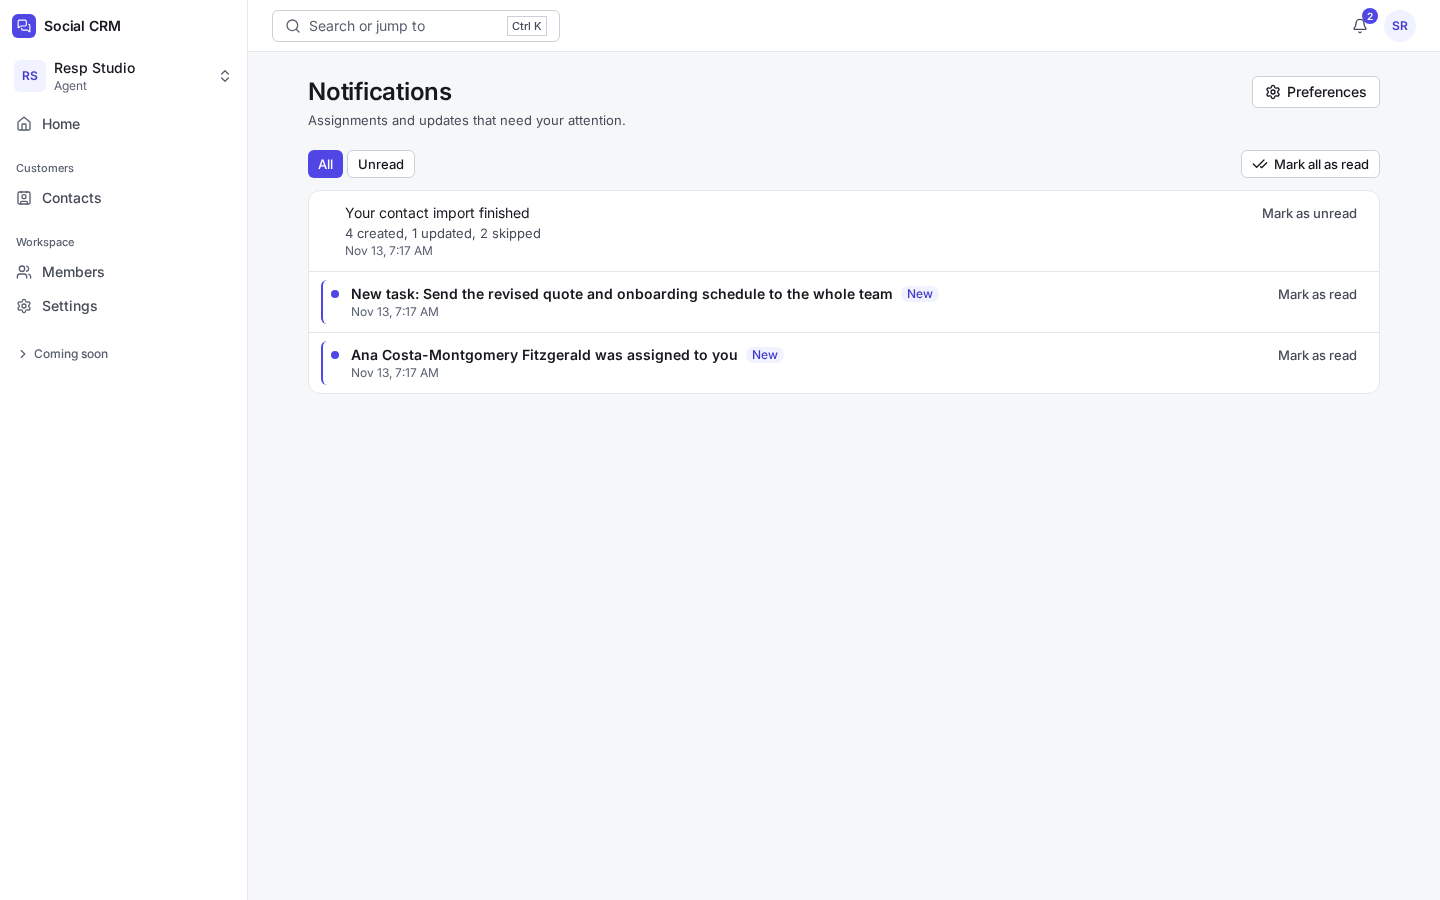
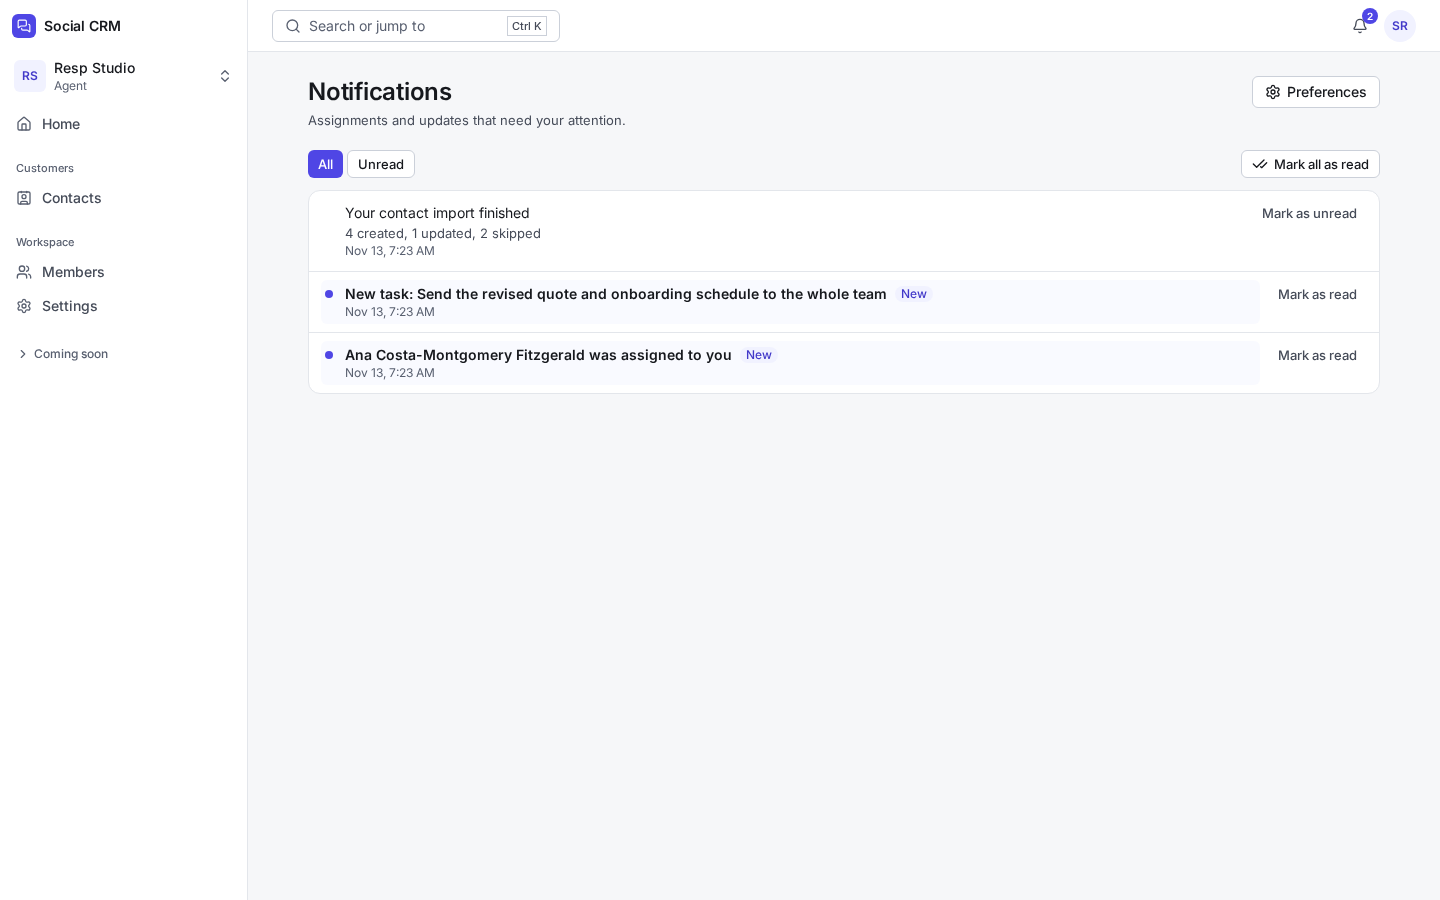
fix(web): unread marker without side border; test lint/type fixes; Track C report and design doc

Changed region(s): [[0.2188, 0.3111, 0.6562, 0.4356]]

diff --git a/apps/api/test/notifications.test.ts b/apps/api/test/notifications.test.ts
@@ -20,7 +20,11 @@ const clear = () => h.admin.query("DELETE FROM notifications WHERE workspace_id 
 
 beforeAll(async () => {
   h = await bootstrap();
-  [owner, admin, agent, viewer, outsider] = await Promise.all(["nowner", "nadmin", "nagent", "nviewer", "noutsider"].map((l) => h.newUser(l)));
+  owner = await h.newUser("nowner");
+  admin = await h.newUser("nadmin");
+  agent = await h.newUser("nagent");
+  viewer = await h.newUser("nviewer");
+  outsider = await h.newUser("noutsider");
   ws = await h.workspace(owner, "Notif", { admin, agent, viewer });
   other = await h.workspace(outsider, "Notif other");
 });
@@ -89,7 +93,7 @@ describe("notifications API", () => {
     expect(pages).toBe(3);
     expect(new Set(seen).size).toBe(7);
     expect(seen).toEqual([...seen].sort().reverse());
-    const raw = (qs: string) => h.app.request(`/v1/workspaces/${ws}/notifications?${qs}`, { headers: { cookie: agent.cookie } }).then((r) => r.status);
+    const raw = (qs: string) => Promise.resolve(h.app.request(`/v1/workspaces/${ws}/notifications?${qs}`, { headers: { cookie: agent.cookie } })).then((r) => r.status);
     expect(await raw("limit=500")).toBe(400);
     expect(await raw("cursor=nope")).toBe(400);
   });
@@ -138,8 +142,7 @@ describe("notification preferences API", () => {
   });
 
   it("rejects unknown kinds and empty bodies; non-members get 404", async () => {
-    const c = h.clientFor(agent);
-    const patch = (b: unknown) => h.app.request(`/v1/workspaces/${ws}/notification-preferences`, { method: "PATCH", headers: { cookie: agent.cookie, origin: "http://localhost:3000", "content-type": "application/json" }, body: JSON.stringify(b) }).then((r) => r.status);
+    const patch = (b: unknown) => Promise.resolve(h.app.request(`/v1/workspaces/${ws}/notification-preferences`, { method: "PATCH", headers: { cookie: agent.cookie, origin: "http://localhost:3000", "content-type": "application/json" }, body: JSON.stringify(b) })).then((r) => r.status);
     expect(await patch({ preferences: [{ kind: "nope", inApp: false }] })).toBe(400);
     expect(await patch({ preferences: [] })).toBe(400);
     expect(failure(await h.clientFor(outsider).call(endpoints.getNotificationPreferences, P())).status).toBe(404);

diff --git a/apps/web/components/notifications/notification-list.tsx b/apps/web/components/notifications/notification-list.tsx
@@ -140,7 +140,7 @@ export function NotificationList({ workspaceId, timeZone, initial }: { workspace
                   </span>
                 </>
               );
-              const rowCls = cn("flex min-h-11 min-w-0 flex-1 items-start gap-3 rounded-md px-1 py-1 hover:bg-hover pointer-coarse:min-h-11", unread && "border-l-2 border-accent pl-2");
+              const rowCls = cn("flex min-h-11 min-w-0 flex-1 items-start gap-3 rounded-md px-1 py-1 hover:bg-hover pointer-coarse:min-h-11", unread && "bg-accent-subtle/40");
               return (
                 <li key={n.id} data-unread={unread} className="flex items-start gap-2 px-3 py-2">
                   {href ? (

diff --git a/docs/project/track-c-report.md b/docs/project/track-c-report.md
@@ -1,0 +1,82 @@
+# Track C report: in-app notifications and the event outbox
+
+Branch `track/notifications` (worktree), database `crm_notif`, E2E ports 3412 / 8812. Design: `docs/architecture/notifications.md` (includes the events/outbox section). Screenshots: `docs/design/screenshots/notifications/`.
+
+## Scope delivered
+
+- **Event outbox (B1/B2), built from scratch.** `domain_events`, `workspace_event_counters`, `event_consumers`; `emitEvent(tx, ...)`, `dispatchPending(db, opts)`, `pruneEvents`, `startDispatcher` in `apps/api/src/events.ts`. Gapless per-workspace seq, offsets advanced in the consumer's transaction, `FOR UPDATE SKIP LOCKED` so concurrent dispatchers never double-process, crash-resumable, pruning only below all offsets and older than N days (enforced again by a DELETE policy). In-process polling loop started by `apps/api/src/server.ts` with graceful stop; documented as moving to a pg-boss worker (D7).
+- **Notifications.** `notifications`, `notification_preferences`; generator registry with common rules (actor excluded, active members only, preferences, dedupe); generators for `contact.owner_assigned`, `task.assigned`, `import.completed`. Six endpoints, typed contracts, bearer compatible.
+- **UI.** Topbar bell with badge, inbox page, preferences page (tab added under Settings), polling plus focus refresh with request sequencing, polite live region, non-colour unread cues, empty/loading/error states, 44px touch targets.
+- No email or push. Extension point is documented (channel boolean columns beside `in_app`).
+
+## Tests (all against `crm_notif`)
+
+| Suite | Count | Proves |
+|---|---|---|
+| `packages/db/test/notifications-rls.test.ts` | 9 | RLS on all 5 new tables: a user cannot read another user's notifications (admin and owner included, other workspace, no user); inserts only on the system path and only for active members; dedupe unique per (workspace, user); only `read_at` updatable; no deletes; preferences own-rows-only; domain_events append-only, DELETE only below consumer offsets; counter +1 only; consumers dispatcher-only. The existing `tenancy.test.ts` tenant-table check still passes with the new tables. |
+| `apps/api/test/events.test.ts` | 14 | 25 concurrent transactions committing in reverse order give seq 1..25 and a polling reader never sees a gap (B1 test); rollback does not burn a seq; ordering, offsets, redelivery after a crash (batch and offset roll back together), 3 concurrent dispatchers process each event exactly once, independent offsets, poll loop start/stop, pruning (age AND offsets, late consumer holds events), notification pipeline (owner/actor/self-assign, task, import with null actor, malformed payload skipped, preferences, deactivated member, reprocessing creates one row, new generator registration). |
+| `apps/api/test/notifications.test.ts` | 10 | Isolation between members and workspaces, non-member 404, every role may read their own inbox, unread count, read/unread, mark all (own rows only), cursor pagination without repeats, limit/cursor validation, bearer path, 401, preferences defaults/update/muting end to end, validation. Drift guard (`contract.test.ts`) passes with the 6 new endpoints. |
+| `apps/web/e2e/notifications.spec.ts` | 5 | Badge updates through polling in a second browser context (clock fast-forward past 30 s) and via focus; live region polite; inbox: unread cues, click navigates and marks read, mark unread, mark all read, Unread filter empty state, Load more (20 then 33); preferences keyboard-toggle persists and mutes a kind through the real dispatcher; 375/768/1440 no overflow and axe (wcag2a/aa/21/22aa) clean on inbox and preferences; Pixel 7 touch targets >= 44px. |
+
+E2E seeds events with SQL that mirrors `emitEvent`; the API's own in-process dispatcher turns them into notifications, so the pipeline is exercised end to end.
+
+See the final run results at the bottom (section "Verification run").
+
+## Call sites for the integrator (I did not edit these files)
+
+Each call goes inside the handler's existing transaction (`withContext(db, ..., async (tx) => { ... })`), after the change succeeds. Import: `import { emitEvent } from "../events.ts";`. Do not emit when nothing changed.
+
+| File / function | When | Call |
+|---|---|---|
+| `apps/api/src/routes/contacts.ts`, create contact handler (`POST /contacts`) | new contact created with `ownerId` set | `emitEvent(tx, { workspaceId, type: "contact.owner_assigned", entityType: "contact", entityId: contact.id, actorUserId: userId, payload: { ownerUserId: contact.ownerId, previousOwnerUserId: null, contactName: contact.name } })` |
+| `contacts.ts`, update contact handler (`PATCH /contacts/:contactId`) | `ownerId` changed to a non-null user | same, with `previousOwnerUserId: <old ownerId>` |
+| `contacts.ts`, bulk/other places that assign owner (if any) | owner changes | same |
+| `apps/api/src/routes/tasks.ts` (Track B), create task | `assigneeUserId` set | `emitEvent(tx, { workspaceId, type: "task.assigned", entityType: "task", entityId: task.id, actorUserId: userId, payload: { assigneeUserId, title: task.title, contactId: task.contactId ?? null } })` |
+| `tasks.ts`, update task | assignee changed to a non-null user | same |
+| `contacts.ts` task handlers (today's `createTask`/`updateTask`, until Track B moves them) | as above | as above |
+| `apps/api/src/routes/imports.ts`, commit handler (`POST /imports/:importId/commit`) | after the import job is marked complete, in the same transaction | `emitEvent(tx, { workspaceId, type: "import.completed", entityType: "import", entityId: importId, actorUserId: null, payload: { importedByUserId: userId, created, updated, skipped } })` |
+
+Payload shapes are validated by `EventPayloads` in `packages/contracts/src/notifications.ts`. `actorUserId` is the acting user for assignments (so self-assignment notifies nobody); for `import.completed` it must be null because the importer is the intended recipient. The event is emitted in the caller's transaction on purpose: if the change rolls back, no notification is produced. If the integrator adds an `entityId` link target, the web mapping lives in `notificationLink` in `apps/web/components/notifications/notification-list.tsx` (contact, task with `data.contactId`, import).
+
+Also for the integrator:
+- Start the dispatcher wherever the API process is composed: already done in `apps/api/src/server.ts`. If Track B or D add consumers, pass them in `startDispatcher({ consumers: [...] })`.
+- `EVENT_DISPATCH_INTERVAL_MS` and `EVENT_RETENTION_DAYS` are new optional env vars.
+- Prefer deactivating members through the existing member flow: notifications skip non-active members automatically.
+
+## Shared-file edits (minimal, for the integrator)
+
+- `packages/db/src/schema/index.ts`: `export * from "./notifications.ts";`
+- `packages/contracts/src/index.ts`: import of `notificationEndpoints`, `export * from "./notifications.ts"` (marked `// track:notifications`), and `...notificationEndpoints` in `endpoints`.
+- `apps/api/src/routes/workspaces.ts`: import plus `scoped.route("/", notificationRoutes(db)); // track:notifications`.
+- `packages/core/src/permissions.ts`: **no change** (notification endpoints need membership only; own-data access).
+- `apps/web/components/shell/app-shell.tsx` (mine): `<NotificationBell>` in the topbar.
+- `apps/web/app/w/[workspaceId]/settings/settings-tabs.tsx`: one added "Notifications" tab (not on the ownership list; a one-line change).
+- `apps/api/src/server.ts`: dispatcher start, graceful stop, two env vars.
+- Migrations: `packages/db/drizzle/0008_notif_tables.sql` (generated) and `0009_notif_rls.sql` (custom, self-contained: function `app_is_system`, FORCE RLS, policies, grants/revokes, counter trigger). I did not touch `_journal.json` beyond what `drizzle-kit generate` wrote for my two entries; the integrator should discard these numbers, regenerate, and re-apply `0009_notif_rls.sql` verbatim after the table migration.
+
+## Design-hook fix
+
+The impeccable hook flagged a coloured side border (side-tab) on unread rows. Removed. Unread is now a filled dot, a visually-hidden "Unread:" label, a visible "New" label, a bolder title and a subtle background tint (`bg-accent-subtle/40`). Axe and e2e re-run after the change (see verification run).
+
+## Open issues and limits
+
+- A permanently failing event blocks its (consumer, workspace) pair; no attempt cap or dead-letter yet (documented `shortcut` in `events.ts`).
+- `app.system` is an application-level marker, not a separate DB role (trade-off in `notifications.md` section 2). Split into a `crm_worker` role when the pg-boss worker lands.
+- The dispatcher scans every workspace that has a counter row each interval (one cheap query plus one offset transaction per workspace with data). Fine at current scale; at large scale add a "dirty workspaces" notification (LISTEN/NOTIFY) or a worker per shard.
+- The notification link for a `task` notification only works when the payload has a `contactId`; Track B's task page needs a mapping when it exists.
+- Notifications are not deleted (no retention job for them yet; the app role has no DELETE).
+- `import.completed` and the assignment events are not emitted until the integrator wires the call sites above, so in the running app the inbox stays empty until then (the pipeline is proven by tests that call `emitEvent`).
+- No popover list in the bell (page only), no sound, no email/push.
+
+## Skills used (actual)
+
+- Read `docs/project/workstreams.md` and architecture section 13 first, as instructed.
+- Used Drizzle Kit (`generate`, `generate --custom`) for migrations.
+- Visually checked 375 and 1440 screenshots with the image reader.
+- Did NOT invoke: superpowers brainstorming/writing-plans, context7, ui-ux-pro-max, impeccable critique/polish, /code-review, /security-review (a post-write impeccable design hook ran automatically on new UI files and found nothing deterministic; I did not run a manual critique). The design followed the existing component library directly. A reviewer pass is still owed.
+
+## Verification run (2026-11-13, database `crm_notif`)
+
+- `turbo run lint typecheck test --continue --force --env-mode=loose`. Note: turbo's strict env mode drops `CRM_DB_NAME`, so without `--env-mode=loose` tests silently hit the default `crm` database. Lint and typecheck pass everywhere. Tests: core 48, api-client 16, db 45, web unit 34, design-tokens 42, api 157 (12 files) all pass in the filtered run (`turbo run test --filter=@crm/api`).
+- In the one full-parallel run of all tasks, the existing, unmodified `apps/api/test/contacts-list.test.ts` failed once with `Hook timed out in 10000ms` in its `beforeAll` under CPU contention; it passes in isolation and in the filtered run. Load flake, not a logic failure; its hook timeout should be raised.
+- Playwright, full suite on ports 3412/8812: 58 passed (53 existing + 5 notification tests), run before the unread-marker fix. The 5 notification tests (axe at 375/768/1440, touch targets) were re-run after the fix: 5 passed, screenshots regenerated.

diff --git a/docs/architecture/notifications.md b/docs/architecture/notifications.md
@@ -1,0 +1,76 @@
+# Notifications and the event outbox
+
+Status: built in Track C (2026-11-13). Implements architecture amendments B1 and B2 (section 13 of `architecture.md`) at minimal scale.
+
+## 1. Domain events (the outbox)
+
+| Table | Purpose |
+|---|---|
+| `domain_events` | Durable, append-only log: `workspace_id`, `seq`, `type`, `entity_type`, `entity_id`, `actor_user_id`, `payload jsonb`, `created_at`. `UNIQUE (workspace_id, seq)`. |
+| `workspace_event_counters` | One row per workspace holding `last_seq`. |
+| `event_consumers` | `(consumer, workspace_id) -> last_seq`, the offset of each consumer. |
+
+**Producing.** `emitEvent(tx, { workspaceId, type, entityType, entityId, actorUserId, payload })` in `apps/api/src/events.ts`. It must be called inside the caller's own transaction, so the event commits or rolls back together with the change it describes. It bumps the counter with `UPDATE ... RETURNING last_seq`; the row lock is held until commit, which serializes writers of one workspace, so seq order equals commit order and seq has no gaps (a rolled-back transaction never consumes a number). A trigger refuses any counter change other than +1. Tests: 25 concurrent transactions committing in reverse order while a reader polls; every reader snapshot is a contiguous prefix `1..k`.
+
+**Consuming.** `dispatchPending(db, { consumers, batchSize?, workspaceIds? })`:
+
+1. Lists workspaces from the counter table, then for each (consumer, workspace) opens one transaction.
+2. Takes the offset row with `SELECT ... FOR UPDATE SKIP LOCKED`. If another dispatcher holds it, that pair is skipped: two dispatchers never double-process.
+3. Reads events with `seq > offset` in order (batch of 100), runs `consumer.handle(tx, event)` for each, and advances the offset **in the same transaction**.
+4. A handler error rolls back the batch effects and the offset, and is reported in the result. The next run redelivers: at-least-once delivery, so consumers must be idempotent (the notification consumer is, through `dedupe_key`).
+
+Known limit (`shortcut` in code): a permanently failing event blocks its workspace for that consumer. Add an attempt cap or dead-letter table when a second real consumer exists. Malformed payloads for known types are skipped by the notification consumer rather than thrown, so bad data does not block.
+
+**Running it.** `startDispatcher(db, { consumers, intervalMs, retentionDays })` is an in-process polling loop started by `apps/api/src/server.ts` (`EVENT_DISPATCH_INTERVAL_MS`, default 1000; `EVENT_RETENTION_DAYS`, default 30). Runs never overlap and `stop()` awaits the run in flight (wired to SIGINT/SIGTERM). Decision D7: this moves to a pg-boss worker later. `dispatchPending` is already the unit of work and takes a `Db`, so the worker only calls it from a scheduled job; no other code changes. Tests call `dispatchPending` directly.
+
+**Retention.** `pruneEvents(db, { consumers, olderThanDays })` (run hourly by the loop) deletes events older than N days AND at or below every named consumer's offset. Missing offset rows are created at 0 first, so a newly registered consumer holds events back until it has caught up. The database enforces the offset rule again: the `DELETE` policy on `domain_events` only allows `seq <= min(last_seq)` of the workspace's consumers, and only on the system path.
+
+**Append-only.** `UPDATE` and `TRUNCATE` are revoked from the app role; `DELETE` exists only for the pruning policy above.
+
+## 2. Row-level security design
+
+The dispatcher runs as the same `crm_app` role as request handlers, inside a workspace context (`app.workspace_id`). It has no user. The system path is marked by a transaction-local setting `app.system = 'dispatcher'`, exposed as `app_is_system()`. Only `withSystem()` in `events.ts` sets it; request handlers never do. Every policy below still pins `workspace_id = app_workspace_id()`, so even the system path is confined to one workspace per transaction.
+
+| Table | SELECT | INSERT | UPDATE | DELETE |
+|---|---|---|---|---|
+| `domain_events` | system | any active member (request path, via `emitEvent`) | none (revoked) | system, below all offsets |
+| `workspace_event_counters` | workspace, or system (to discover workspaces; exposes ids and counters only) | active member, `last_seq = 0` | active member, +1 only (trigger) | none |
+| `event_consumers` | system | system | system | none |
+| `notifications` | own rows: `user_id = app_user_id()` | system, and the recipient must be an **active** member of that workspace | own rows, **column `read_at` only** (column grant) | none |
+| `notification_preferences` | own rows, or system (to honour preferences) | own rows | own rows | none |
+
+Why this satisfies "never read others' rows, even admins": the notification SELECT policy has no role clause and no system clause. Owners and admins get the same policy as everyone, so `SELECT` returns only their own rows. The system path can insert for any active member (the dispatcher must create a recipient's row) but cannot read the table. An insert for a deactivated member or a non-member violates the policy and fails, which is a second line of defence behind the consumer's own check. Users cannot insert notifications at all, so a user cannot forge one for a colleague.
+
+Trade-off, stated plainly: `app_is_system()` is a convention among application code, not a credential. A bug or injected code that sets `app.system` could read the event log of the current workspace and insert notifications for members. It still could not read anyone's notifications, cross workspaces, or alter history. A stronger variant (a separate `crm_worker` role with its own grants) belongs with the pg-boss worker (D7), where the dispatcher becomes its own process.
+
+## 3. Notifications
+
+- `notifications`: `id` (uuidv7, so id order is time order and pages use it as the cursor), `workspace_id`, `user_id` (recipient), `kind`, `title`, `body`, `entity_type`, `entity_id`, `data jsonb`, `dedupe_key`, `created_at`, `read_at`. `UNIQUE (workspace_id, user_id, dedupe_key)`.
+- `notification_preferences`: `(workspace_id, user_id, kind) -> in_app boolean`. No row means on.
+- **Channel extension point (not built).** `in_app` is the first channel column. Email and push would be added as `email` / `push` boolean columns (default per kind) on `notification_preferences`, with a delivery step beside the notification insert in `consumer.ts`. The preferences endpoint and form return one object per kind, so adding channels widens each object without changing the shape. No email or push code exists.
+
+### Generators
+
+A new kind is added by (1) adding it to `NOTIFICATION_KINDS` and `EventPayloads` in `packages/contracts/src/notifications.ts` and (2) calling `registerGenerator(type, (event, payload) => drafts)` in `apps/api/src/notifications/generators.ts`. A generator only maps an event to recipients and text. The consumer applies the rules common to all kinds:
+
+- the actor is never notified of their own action (`draft.userId === event.actorUserId` is dropped);
+- only active members receive rows;
+- `in_app = false` for that kind suppresses the row;
+- `dedupe_key = <event id>:<kind>` with `ON CONFLICT DO NOTHING`, so processing an event twice creates one row;
+- an unknown event type is ignored; a payload that fails its schema is skipped.
+
+### Kinds now
+
+| Event type | Notified | Actor | Entity | Payload |
+|---|---|---|---|---|
+| `contact.owner_assigned` | `ownerUserId` (the new owner) | user who changed the owner | `contact`, contact id | `{ ownerUserId, previousOwnerUserId?, contactName }` |
+| `task.assigned` | `assigneeUserId` | user who assigned | `task`, task id | `{ assigneeUserId, title, contactId? }` |
+| `import.completed` | `importedByUserId` | **null** (system completion; the importer is in the payload, otherwise the "actor is never notified" rule would suppress it) | `import`, import job id | `{ importedByUserId, created, updated, skipped, failed? }` |
+
+### API (`packages/contracts/src/notifications.ts`, all under `/v1/workspaces/:workspaceId`)
+
+`GET /notifications` (cursor, `limit` up to 100, `unread=true`), `GET /notifications/unread-count`, `PATCH /notifications/:id` (`{ read }`, so mark read and unread), `POST /notifications/read-all`, `GET /notification-preferences`, `PATCH /notification-preferences` (`{ preferences: [{ kind, inApp }] }`). Every active member of the workspace, any role, may use them for their own data; non-members get 404. Cookie and bearer both work; the drift guard covers all six.
+
+### UI
+
+Bell link with unread badge in the topbar (links to the inbox page; no popover, so no new dependency), `/w/:id/notifications` inbox (All / Unread, Load more, Mark all as read, per-row mark read/unread, row click marks read and navigates to the contact when the notification has one), `/w/:id/settings/notifications` personal preferences (one checkbox per kind, saved on change). The unread count polls every 30 s (`NEXT_PUBLIC_NOTIFICATION_POLL_MS` overrides it), on tab focus and on visibility change; only the newest request may write state. A polite live region announces count changes after the first load. Unread rows show a dot, a "New" label, bold title and screen-reader text "Unread:", so state never relies on colour alone.
